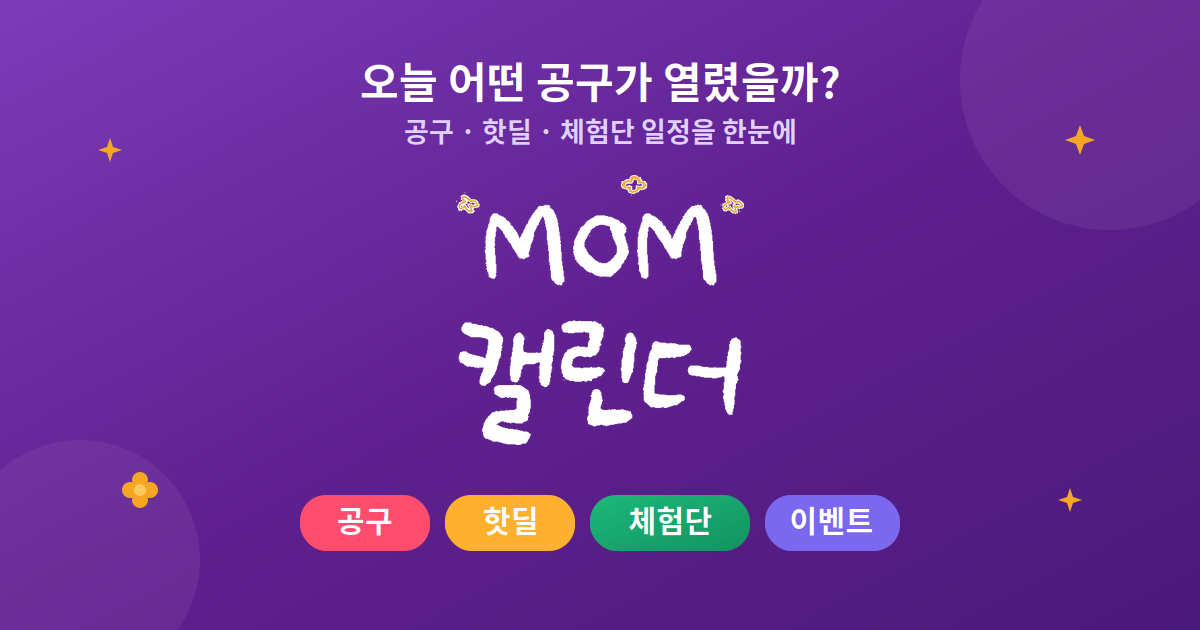
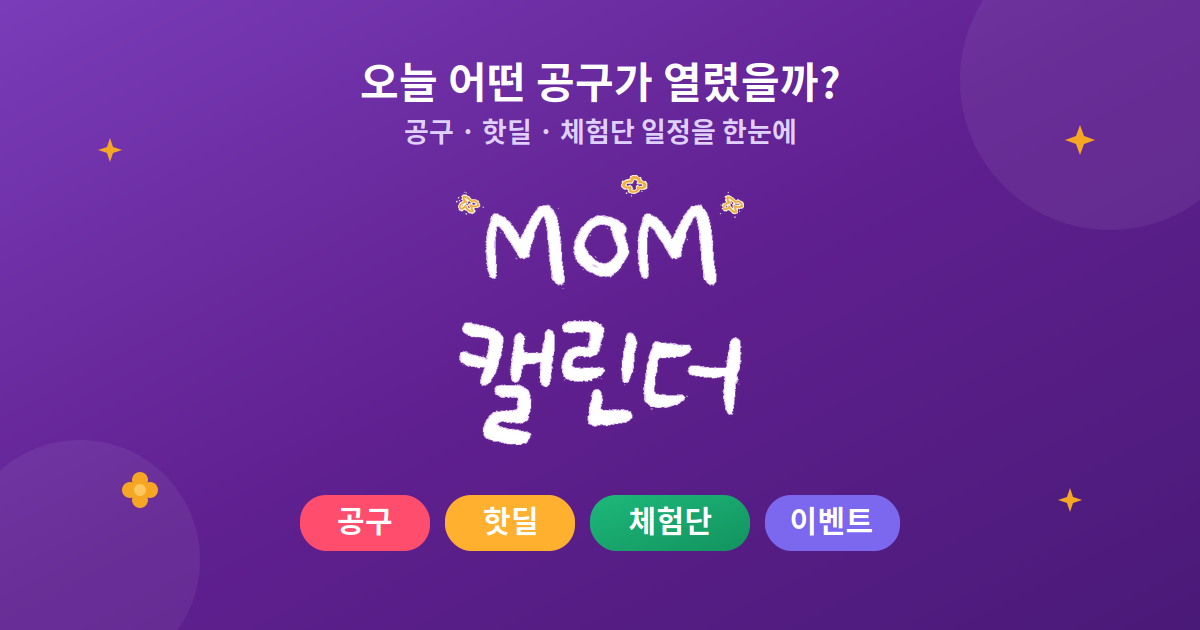
Add files via upload

diff --git a/index.html b/index.html
@@ -32,7 +32,7 @@
 <link href="https://fonts.googleapis.com/css2?family=Noto+Sans+KR:wght@400;500;600;700;800&display=swap" rel="stylesheet">
 <style>
 :root{
-  --main:#4A35A0;--main-d:#2A1D6E;--main-l:#7B68EE;--main-pale:#EEE9FF;--main-soft:#F7F5FF;
+  --main:#602090;--main-d:#4A1A78;--main-l:#9B6FD4;--main-pale:#F0E6FA;--main-soft:#F9F4FD;
   --white:#fff;--cream:#F8F7FA;--border:#EBEBEB;
   --t1:#191919;--t2:#555;--t3:#999;
   --red:#E8445A;--green:#1DB87A;--orange:#FF7043;--blue:#4A90E2;
@@ -50,8 +50,8 @@ html,body{font-family:'Noto Sans KR',sans-serif;background:var(--cream);color:va
 .menu-btn{background:none;border:none;cursor:pointer;display:flex;flex-direction:column;gap:5px;padding:4px}
 .menu-btn span{display:block;width:22px;height:2px;background:#fff;border-radius:2px}
 /* 로고 */
-.logo-img-wrap{flex-shrink:0;display:flex;align-items:center;height:32px}
-.logo-img-wrap img{height:32px;width:auto;display:block;object-fit:contain}
+.logo-img-wrap{flex-shrink:0;display:flex;align-items:center;height:40px}
+.logo-img-wrap img{height:40px;width:auto;display:block;object-fit:contain}
 .logo-svg-fallback{height:32px;display:flex;align-items:center}
 .ad-btn{background:rgba(255,255,255,.13);border:1px solid rgba(255,255,255,.22);color:#fff;font-size:11px;font-weight:600;padding:5px 10px;border-radius:20px;cursor:pointer;font-family:inherit;flex-shrink:0}
 .srch{position:relative}
@@ -195,11 +195,11 @@ html,body{font-family:'Noto Sans KR',sans-serif;background:var(--cream);color:va
 .cat-tag{font-size:10px;font-weight:800;padding:2px 8px;border-radius:7px;white-space:nowrap}
 .cat-sub{font-size:11px;color:#9a9aa5}
 .card-right{position:absolute;top:50%;right:12px;transform:translateY(-50%);display:flex;align-items:center;gap:4px}
-.card-status-txt{font-size:11.5px;font-weight:700;white-space:nowrap}
+.card-status-txt{font-size:11.5px;font-weight:700;white-space:nowrap;line-height:1}
+.card-go{color:#c4c0d4;font-size:18px;font-weight:400;line-height:1;position:relative;top:1px}
 .card-name{font-size:14px;font-weight:700;color:var(--t1);line-height:1.3;margin-bottom:4px;white-space:nowrap;overflow:hidden;text-overflow:ellipsis;padding-right:82px}
 .card-sellerline{font-size:11.5px;color:#9a9aa5;white-space:nowrap;overflow:hidden;text-overflow:ellipsis;padding-right:82px}
 .card-seller-strong{color:#5b4ba8;font-weight:700}
-.card-go{color:#c4c0d4;font-size:18px;font-weight:400;line-height:1}
 
 /* 날짜 섹션 구분선 */
 .date-section{}
@@ -316,7 +316,7 @@ html,body{font-family:'Noto Sans KR',sans-serif;background:var(--cream);color:va
     <div class="hd-left">
       <button class="menu-btn" onclick="openSide()"><span></span><span></span><span></span></button>
       <div class="logo-img-wrap" id="logoImgWrap" onclick="goHome()" style="cursor:pointer">
-        <img src="momcal_logo.png" alt="맘캘린더"
[1 lines of base64/hex data omitted]
           onerror="this.parentElement.style.display='none';document.getElementById('logoSvgFallback').style.display='flex'">
       </div>
       <div class="logo-svg-fallback" id="logoSvgFallback" style="display:none;cursor:pointer" onclick="goHome()">